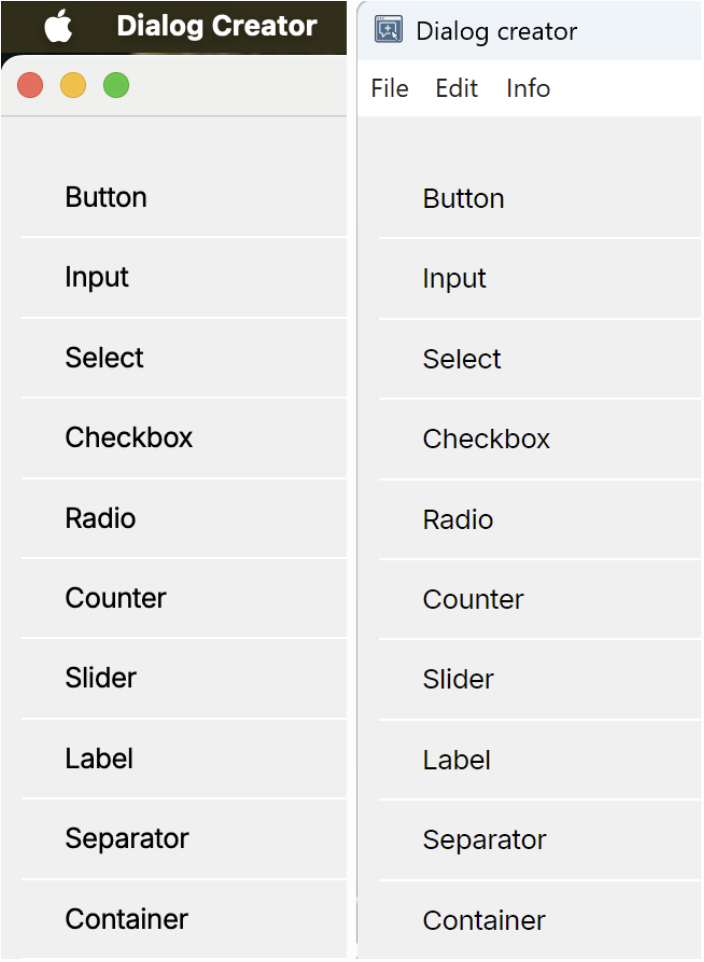
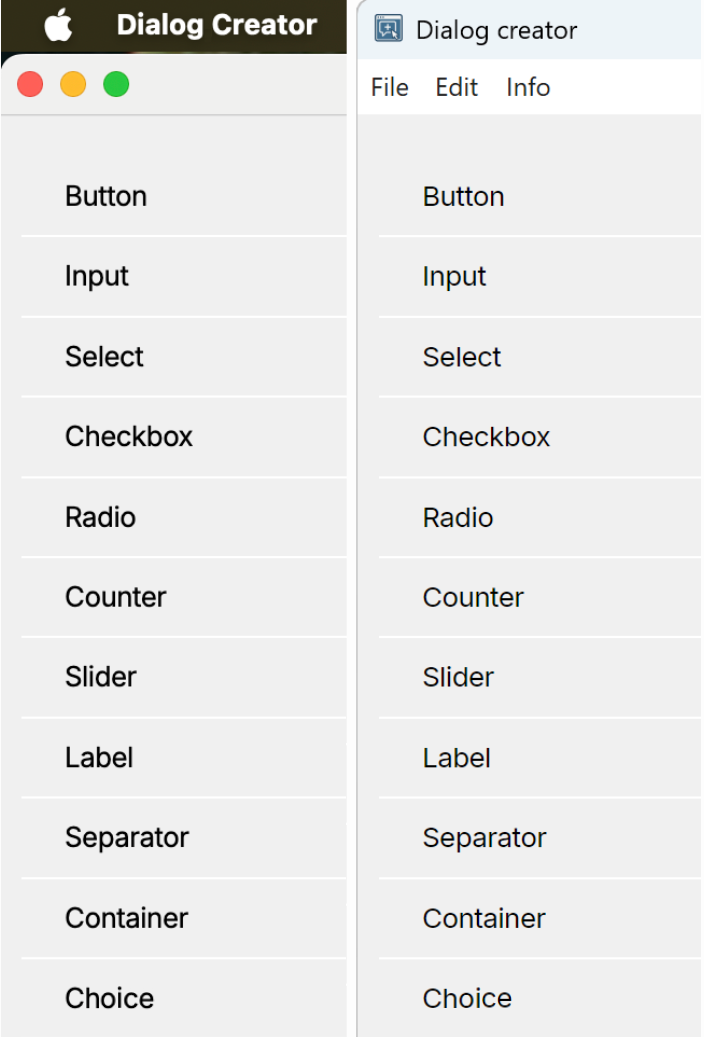
choiceList renamed to Choice

diff --git a/src/library/api.ts b/src/library/api.ts
@@ -681,7 +681,7 @@ export function createPreviewUI(env: PreviewUIEnv): PreviewUI {
                     }
                     break;
 
-                case 'ChoiceList':
+                case 'Choice':
                     if (prop === 'value') {
                         applySorterItems(el, normalizeSorterInput(v, utils.isTrue(el.dataset.ordering)));
                     } else {
@@ -733,7 +733,7 @@ export function createPreviewUI(env: PreviewUIEnv): PreviewUI {
                 return Number.isFinite(n) ? n : 0;
             }
 
-            if (eltype === 'ChoiceList') {
+            if (eltype === 'Choice') {
                 return readSorterItems(el);
             }
 
@@ -779,7 +779,7 @@ export function createPreviewUI(env: PreviewUIEnv): PreviewUI {
                     return;
                 }
 
-                if (eltype === 'ChoiceList') {
+                if (eltype === 'Choice') {
                     applySorterItems(el, normalizeSorterInput(value, utils.isTrue(el.dataset.ordering)));
                     return;
                 }
@@ -842,7 +842,7 @@ export function createPreviewUI(env: PreviewUIEnv): PreviewUI {
                 return;
             }
 
-            if (eltype === 'ChoiceList') {
+            if (eltype === 'Choice') {
                 applySorterItems(el, normalizeSorterInput(value, utils.isTrue(el.dataset.ordering)));
                 return;
             }
@@ -918,7 +918,7 @@ export function createPreviewUI(env: PreviewUIEnv): PreviewUI {
                 return dsVals.length > 0 ? dsVals : '';
             }
 
-            if (eltype === 'ChoiceList') {
+            if (eltype === 'Choice') {
                 const items = readSorterItems(el).filter(item => item.state !== 'off');
                 if (items.length === 0) return [];
                 return items.map(item => `${item.text}:${item.state}`);
@@ -1294,7 +1294,7 @@ export function createPreviewUI(env: PreviewUIEnv): PreviewUI {
                 return;
             }
 
-            if (eltype === 'ChoiceList') {
+            if (eltype === 'Choice') {
                 const host = el;
                 const allowDesc = utils.isTrue(host.dataset.ordering);
                 const current = readSorterItems(host);

diff --git a/src/library/renderutils.ts b/src/library/renderutils.ts
@@ -1181,7 +1181,7 @@ export const renderutils: RenderUtils = {
                 element.appendChild(sample);
             }
 
-        } else if (data.type == "ChoiceList") {
+        } else if (data.type == "Choice") {
 
             element.className = 'sorter';
             element.style.width = data.width + 'px';
@@ -1198,7 +1198,7 @@ export const renderutils: RenderUtils = {
             element.dataset.items = String(data.items || '');
             element.dataset.align = String(data.align || 'left');
 
-            // Preview should start with no selection (ChoiceList has no "Value" property).
+            // Preview should start with no selection (Choice has no "Value" property).
             if (renderutils.previewWindow()) {
                 delete element.dataset.selected;
                 delete element.dataset.activeValues;
@@ -1276,7 +1276,7 @@ export const renderutils: RenderUtils = {
         const select = dataset.type === 'Select';
         const slider = dataset.type === 'Slider';
         const container = dataset.type === 'Container';
-        const sorter = dataset.type === 'ChoiceList';
+        const sorter = dataset.type === 'Choice';
         const separator = dataset.type === 'Separator';
         const button = dataset.type === 'Button';
         const label = dataset.type === 'Label';
@@ -2343,7 +2343,7 @@ export const renderutils: RenderUtils = {
                 fallbackBoundingClientRect: visual.getBoundingClientRect(),
                 scroll: false,
                 group: {
-                    name: `choicelist-${datasetSource.id || 'default'}`,
+                    name: `choice-${datasetSource.id || 'default'}`,
                     pull: false,
                     put: false
                 },
@@ -3053,7 +3053,7 @@ export const renderutils: RenderUtils = {
                     break;
                 }
 
-                case "ChoiceList": {
+                case "Choice": {
                     element.style.fontSize = fontSize + 'px';
                     if (inner) {
                         inner.style.fontSize = fontSize + 'px';

diff --git a/src/modules/editor.ts b/src/modules/editor.ts
@@ -913,7 +913,9 @@ export const editor: Editor = {
                 li.dataset.elementKey = name;
 
                 // Remove the sufix "Element" from the name of the element
-                li.textContent = utils.capitalize(name.substring(0, name.length - 7));
+                const baseName = name.substring(0, name.length - 7);
+                const displayName = utils.capitalize(baseName);
+                li.textContent = displayName;
 
                 li.addEventListener('click', () => {
 
@@ -938,9 +940,10 @@ export const editor: Editor = {
 
                     } else if (window === "editor") {
                         const elementType = name as keyof Elements;
+                        const elementData = elements[elementType];
                         editor.addElementToDialog(
-                            String(li.textContent),
-                            elements[elementType],
+                            String(elementData.type || displayName),
+                            elementData,
                         );
                     }
                 });
@@ -959,8 +962,8 @@ export const editor: Editor = {
         if (data) {
             // Create the core element as before
             const core = renderutils.makeElement({ ...data });
-            // The core factory often sets dataset.type from data.type, but we normalize it to the name from UI
-            core.dataset.type = name;
+            // Ensure dataset.type uses the canonical element type, not the display label.
+            core.dataset.type = String(data.type || name);
 
             // Build a wrapper that carries the dataset and positioning
             const wrapper = document.createElement('div');

diff --git a/src/interfaces/database.ts b/src/interfaces/database.ts
@@ -61,7 +61,7 @@ export type DBElements = {
 
 export type AnyDBElement = DBElements[keyof DBElements];
 
-// Convenient aliases (keep previous names usable externally)
+// Convenient aliases
 export type Button    = DBElements['Button'];
 export type Input     = DBElements['Input'];
 export type Select    = DBElements['Select'];
@@ -72,4 +72,4 @@ export type Slider    = DBElements['Slider'];
 export type Label     = DBElements['Label'];
 export type Separator = DBElements['Separator'];
 export type Container = DBElements['Container'];
-export type ChoiceList = DBElements['ChoiceList'];
+export type Choice = DBElements['Choice'];

diff --git a/src/interfaces/elements.ts b/src/interfaces/elements.ts
@@ -155,9 +155,9 @@ export type containerElementType = {
     isVisible: boolean;
     elementIds: string[];
 }
-export type choiceListElementType = {
+export type choiceElementType = {
     id: string;
-    type: 'ChoiceList';
+    type: 'Choice';
     nameid: string;
     left: number;
     top: number;
@@ -199,7 +199,7 @@ export interface Elements {
     labelElement: labelElementType;
     separatorElement: separatorElementType;
     containerElement: containerElementType;
-    choiceListElement: choiceListElementType;
+    choiceElement: choiceElementType;
     groupElement: groupElementType;
 }
 

diff --git a/src/modules/elements.ts b/src/modules/elements.ts
@@ -191,9 +191,9 @@ export const elements: ElementsWithPersist = {
             'nameid','left','top','width','height','selection','itemType','itemOrder','backgroundColor','fontColor','activeBackgroundColor','activeFontColor','disabledBackgroundColor','borderColor','isEnabled','isVisible'
         ] as const
     },
-    choiceListElement: {        id: '',
-        type: 'ChoiceList',
-        nameid: 'choicelist',
+    choiceElement: {        id: '',
+        type: 'Choice',
+        nameid: 'choice',
         left: 15,
         top: 15,
         width: 50,

diff --git a/DialogCreator.md b/DialogCreator.md
@@ -126,8 +126,8 @@ If the text exceeds the maximum width, it will be truncated with an ellipsis (`.
 The Separator element is a visual divider used to separate different sections or groups of elements within the dialog.
 
 ### Container
-The Container element is a versatile component that can hold multiple items or rows. It supports single or multi-selection modes and can be populated dynamically via the API.
-The items in a Container can be selected and deselected by clicking, and multi-selection is supported via Shift+click for range selection. In single-selection mode, clicking the active row clears the selection. Their type can be restricted (e.g., numeric, character, date) so that only items of that type are enabled and selectable.
+The Container element is a versatile component that can hold multiple items. It supports single or multi-selection modes and can be populated dynamically via the API.
+The items in a Container can be selected and deselected by clicking, and multi-selection is supported via Shift+click for range selection. In single-selection mode, clicking the active item clears the selection. Their type can be restricted (e.g., numeric, character, date) so that only items of that type are enabled and selectable.
 
 Its properties panel exposes an **Item type** dropdown alongside the selection mode. It defaults to **Any**, which allows all items to remain interactive. Choose a specific type (Numeric, Calibrated, Binary, Character, Categorical, or Date) to enforce that only items whose metadata matches the selected type stay selectable. Items with a different type are visually muted, ignore clicks, and are removed from the active selection.
 
@@ -146,22 +146,22 @@ Helpers such as `listVariables()` return precisely such metadata objects; when t
 This element has another useful property called **Item Order**. When activated, the order in which the items are clicked is duly remembered, and `getSelected()` returns selections in that order. For instance in statistics, when creating a cross-tabulation from two categorical variables, it does matter which variable is selected first (on the rows) and which second (on the columns).
 
 
-### ChoiceList
-The choice list element is a list control built for (ordered) choices. Each row acts like a selectable option, and the list itself can optionally be reordered by drag-and-drop. Because it combines sorting and ordering, it can be used in a wide variety of ways:
+### Choice
+The Choice element is a list control built for (ordered) choices. Each item acts like a selectable option, and the list itself can optionally be reordered by drag-and-drop. Because it combines sorting and ordering, it can be used in a wide variety of ways:
 
-- **Multi-select**: when Ordering is disabled, rows behave like simple on/off selections from a predefined list.
+- **Multi-select**: when Ordering is disabled, items behave like simple on/off selections from a predefined list.
 - **Sorting selector**: choose which fields are active, and (optionally) their direction (ascending/descending).
-- **Ranking list**: drag rows up and down to establish a priority order (the order of items is the ranking).
+- **Ranking list**: drag items up and down to establish a priority order (the order of items is the ranking).
 
 Its properties include:
 
-- **Items**: the list of row labels (comma/semicolon separated).
-- **Sortable**: if Yes, rows can be reordered by dragging.
-- **Ordering**: if Yes, a row cycles through `not selected → ascending → descending → not selected`. If No, it cycles through `not selected → selected → not selected` and no arrow is shown.
+- **Items**: the list of item labels (comma/semicolon separated).
+- **Sortable**: if Yes, items can be reordered by dragging.
+- **Ordering**: if Yes, an item cycles through `not selected → ascending → descending → not selected`. If No, it cycles through `not selected → selected → not selected` and no arrow is shown.
 - **Align**: text alignment for item labels (left/center/right).
-- **Colors**: Background/Font/Active background/Active font/Border colors affect the list and the active row styling, just like the Container element.
+- **Colors**: Background/Font/Active background/Active font/Border colors affect the list and the active item styling, just like the Container element.
 
-In custom JS, `getValue(choiceList)` returns the ordered rows along with their state (`off`, `asc`, `desc`). `getSelected(choiceList)` returns the active selections (for Ordering-enabled lists, this includes the direction).
+In custom JS, `getValue(element)` returns the ordered items along with their state (`off`, `asc`, `desc`). `getSelected(element)` returns the active selections (for Ordering-enabled lists, this includes the direction).
 
 
 ## Keyboard shortcuts
@@ -239,7 +239,7 @@ In the Elements panel (left), click the element to be added. It will be inserted
 
 Item selections in Preview
 
-- Containers support multi-selection. Clicking a row toggles its selection (active state); in single-selection mode, clicking the active row clears it. A `'change'` event is dispatched on the Container so that handlers can react.
+- Containers support multi-selection. Clicking an item toggles its selection (active state); in single-selection mode, clicking the active item clears it. A `'change'` event is dispatched on the Container so that handlers can react.
 - Select elements are single-choice. Changing the selection dispatches `'change'` like native selects.
 
 Runtime errors in Preview
